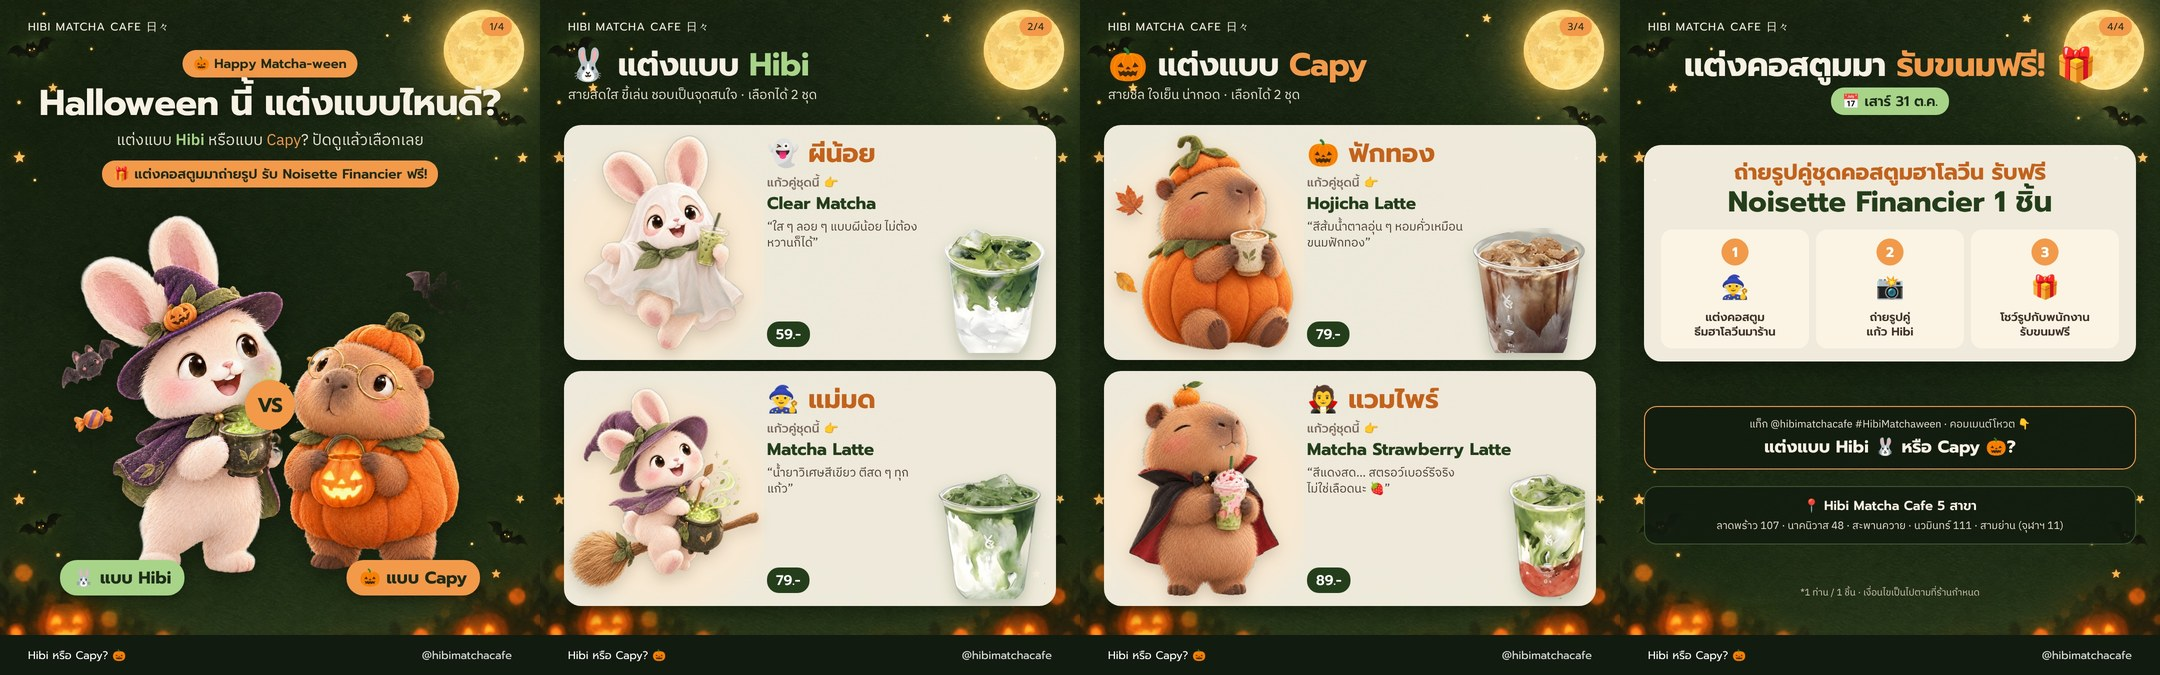
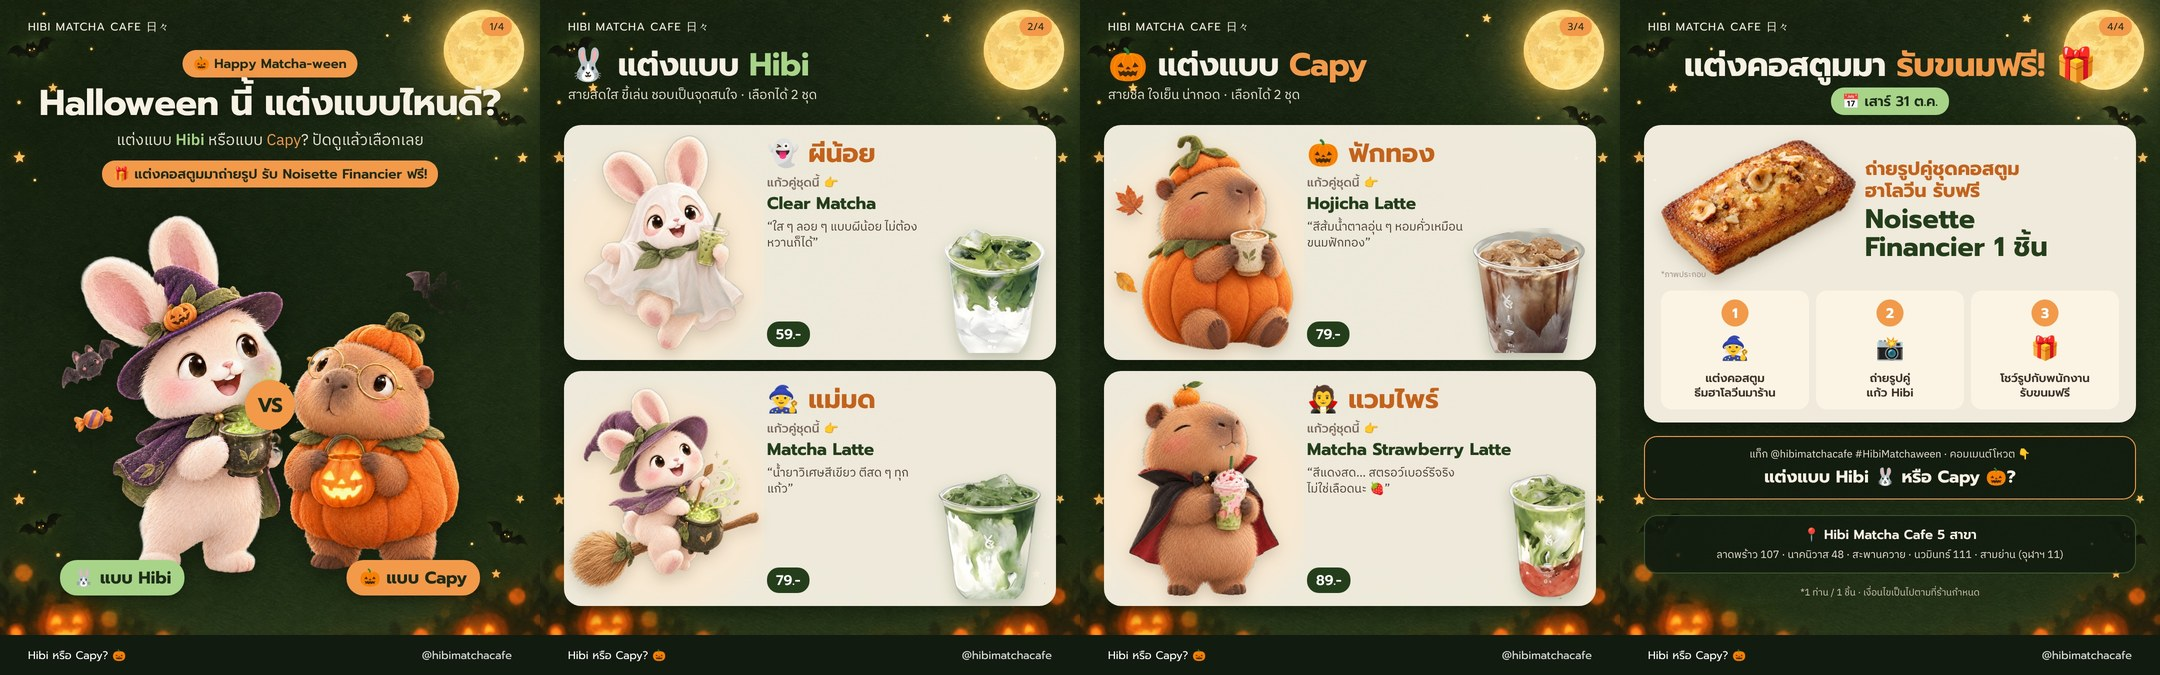
Halloween promo slide: add Noisette Financier image (illustrative)
Claude-Session: https://claude.ai/code/session_019v9CAxCxqD3EqyHWdLwpMA

Changed region(s): [[0.7444, 0.1867, 0.9926, 0.84]]

diff --git a/docs/content-plan/campaigns/halloween-2026/build_slides.py b/docs/content-plan/campaigns/halloween-2026/build_slides.py
@@ -74,20 +74,25 @@ def s4():
     css = f""".w{{position:absolute;top:96px;left:0;right:0;text-align:center}}
 .t{{font-size:66px;color:{CREAM}}}.t em{{font-style:normal;color:{ORANGE}}}
 .dt{{display:inline-block;margin-top:10px;font-family:'Prompt';font-weight:600;font-size:28px;color:{NIGHT};background:{LEAF};padding:6px 22px;border-radius:26px}}
-.pc{{position:absolute;top:290px;left:48px;right:48px;background:rgba(247,241,227,.97);color:#2b2219;border-radius:34px;padding:30px 34px 26px;box-shadow:0 14px 34px rgba(0,0,0,.3)}}
-.pc .gift{{text-align:center;font-family:'Prompt';font-weight:700;font-size:44px;color:#c4611b;line-height:1.15}}
-.pc .gift b{{display:block;font-size:58px;color:#243e1b}}
+.pc{{position:absolute;top:250px;left:48px;right:48px;background:rgba(247,241,227,.97);color:#2b2219;border-radius:34px;padding:30px 34px 26px;box-shadow:0 14px 34px rgba(0,0,0,.3)}}
+.gr{{display:flex;align-items:center;gap:18px}}
+.fi{{width:390px;flex:none;position:relative;text-align:center}}
+.fi img{{width:390px;filter:drop-shadow(0 12px 16px rgba(60,40,20,.25))}}
+.fi span{{position:absolute;left:0;bottom:-4px;font-size:16px;color:#9a8b7e}}
+.pc .gift{{flex:1;font-family:'Prompt';font-weight:700;font-size:38px;color:#c4611b;line-height:1.15}}
+.pc .gift b{{display:block;font-size:54px;color:#243e1b;margin-top:6px;line-height:1.05}}
 .st{{display:flex;gap:14px;margin-top:22px}}
 .st .i{{flex:1;background:#fbf3e4;border-radius:22px;padding:18px 14px;text-align:center}}
 .st .n{{width:54px;height:54px;margin:0 auto;border-radius:50%;background:{ORANGE};color:#fff;font-family:'Prompt';font-weight:700;font-size:28px;display:flex;align-items:center;justify-content:center}}
 .st .e{{font-size:46px;margin-top:8px}}.st .x{{font-family:'Prompt';font-weight:600;font-size:23px;margin-top:6px;line-height:1.25;color:#3f3229}}
-.ask{{position:absolute;top:812px;left:48px;right:48px;background:rgba(18,27,15,.85);border:2px solid {ORANGE};border-radius:26px;padding:18px 24px;text-align:center}}
+.ask{{position:absolute;top:872px;left:48px;right:48px;background:rgba(18,27,15,.85);border:2px solid {ORANGE};border-radius:26px;padding:18px 24px;text-align:center}}
 .ask .k{{font-size:21px;color:#e8e1cf}}.ask .v{{font-family:'Prompt';font-weight:700;font-size:34px;color:{CREAM};margin-top:2px}}
-.br{{position:absolute;top:972px;left:48px;right:48px;background:rgba(18,27,15,.85);border:2px solid #3d5530;border-radius:26px;padding:18px 24px;text-align:center}}
+.br{{position:absolute;top:1030px;left:48px;right:48px;background:rgba(18,27,15,.85);border:2px solid #3d5530;border-radius:26px;padding:18px 24px;text-align:center}}
 .br .t2{{font-family:'Prompt';font-weight:600;font-size:26px}}.br .l{{font-size:21px;margin-top:6px;line-height:1.5;color:#e8e1cf}}
 .note{{position:absolute;top:1170px;left:0;right:0;text-align:center;font-size:19px;color:#cfc6b2}}"""
     body = f"""<div class="w"><div class="h1 t">แต่งคอสตูมมา <em>รับขนมฟรี!</em> 🎁</div><span class="dt">📅 เสาร์ 31 ต.ค.</span></div>
-<div class="pc"><div class="gift">ถ่ายรูปคู่ชุดคอสตูมฮาโลวีน รับฟรี<b>Noisette Financier 1 ชิ้น</b></div>
+<div class="pc"><div class="gr"><div class="fi"><img src="{A('financier', 700)}"><span>*ภาพประกอบ</span></div>
+<div class="gift">ถ่ายรูปคู่ชุดคอสตูม<br>ฮาโลวีน รับฟรี<b>Noisette<br>Financier 1 ชิ้น</b></div></div>
 <div class="st"><div class="i"><div class="n">1</div><div class="e">🧙</div><div class="x">แต่งคอสตูม<br>ธีมฮาโลวีนมาร้าน</div></div>
 <div class="i"><div class="n">2</div><div class="e">📸</div><div class="x">ถ่ายรูปคู่<br>แก้ว Hibi</div></div>
 <div class="i"><div class="n">3</div><div class="e">🎁</div><div class="x">โชว์รูปกับพนักงาน<br>รับขนมฟรี</div></div></div></div>
